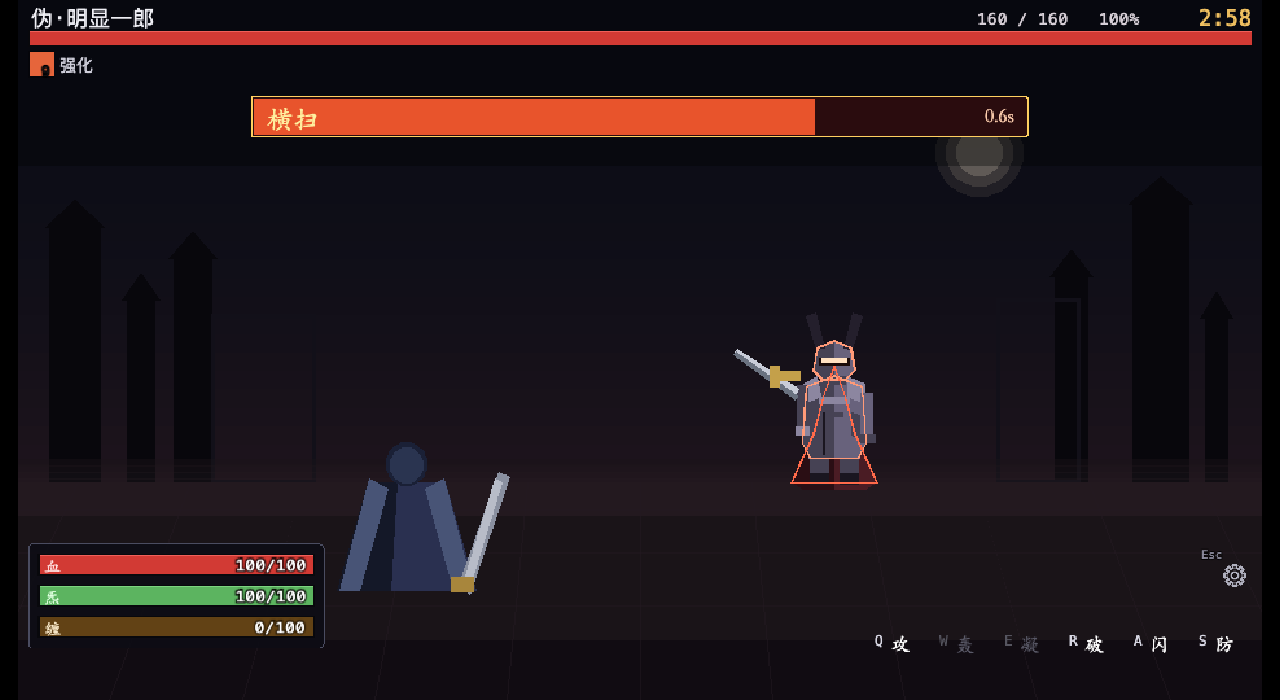
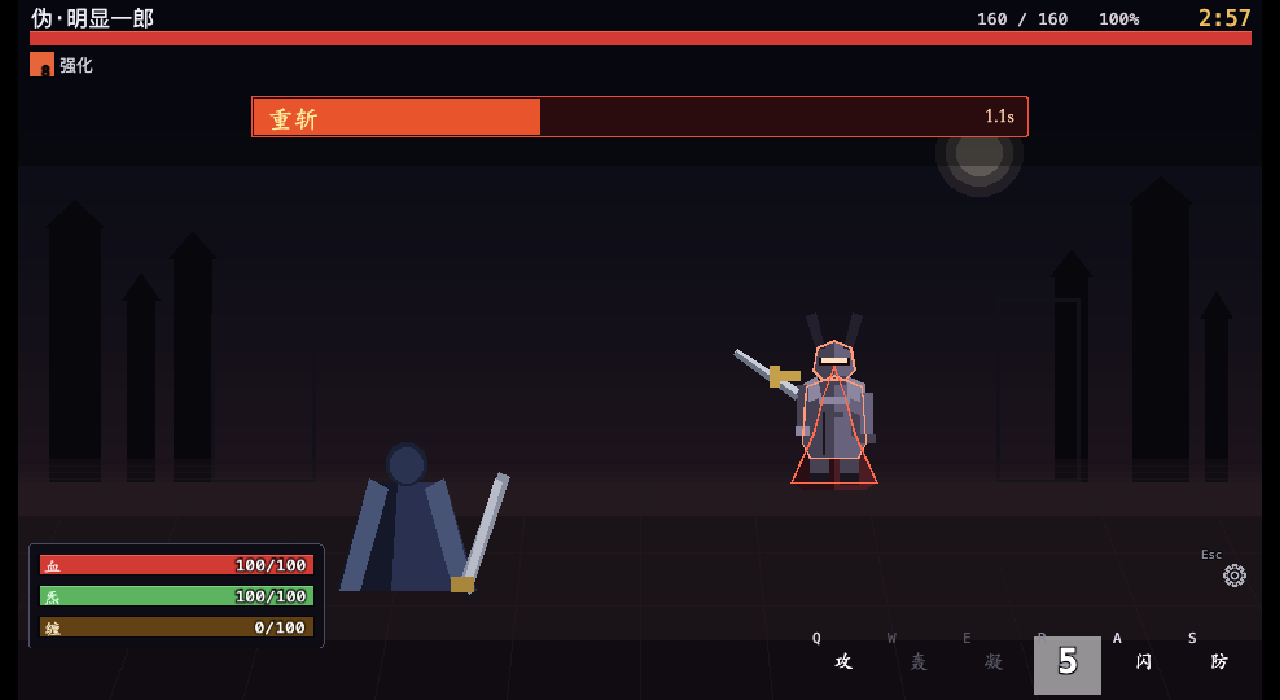
fix(ui): 技能格 44→52；技能字改为真正居中
需求："如果现在按键有这么大，那按键的 icon 是不是就太小了？
并且位置也不是居中的。"

两点都由**实测坐标**确认了，不是感觉问题：

【1. 技能字原来没居中】
`skillSlotLabels` 给的是 `y: rect.y + 2`（贴顶），而 `Label` 只设了
`anchorX: 0.5`、**没设 anchorY** —— 于是字在 44px 的格子里只占
顶部 17px，下面 27px 全空，看起来又小又偏上。

现在：`y: rect.y + rect.h / 2` + `anchorY: 0.5`，**真正垂直居中**。
实测 15px 的技能字占 y 502..518，格子 484..536（中线 510）→ 居中。

【2. 格子相对内容偏小】
44px 里塞 26px 的冷却数字（实际占 34px 高）已经勉强，技能字只能被挤到顶部。
格子 44 → **52**（每格 52×48）：

  26px 数字居中   → y+9 .. y+43
  15px 技能字居中 → y+17 .. y+34   （**与数字同心，故意重叠**）
  11px 按键提示   → y+2 .. y+13    （贴左上角，与上面两者都不重叠）

  格子 y 484..536（底到 536，画布 540，留 4px）
  水平 x 494..952 —— 与玩家面板（x 8..236）不重叠，只是垂直方向并行

【测试改动：一条旧断言与需求冲突，删掉重写】
原来那条断言"技能字 / 冷却数字 / 按键提示**三者互不重叠**"，
而现在的需求明确要求**数字盖在技能字上** —— 两者必须同心重叠。
所以改成：
  - **按键提示**与技能字、数字不重叠（它是小字，被压住就读不出来）
  - 技能字与数字**同心**（中心点一致）
  - 格子高度 ≥ 34+8（放得下 26px 数字）

479 测试 + lint + typecheck + build + CDP 端到端全过。

diff --git a/tests/unit/scaling.test.ts b/tests/unit/scaling.test.ts
@@ -120,55 +120,59 @@ describe('技能格内三个标签都不越界、互不重叠', () => {
     }
   });
 
-  it('三个标签的**实际文字矩形**互不重叠', () => {
+  it('按键提示与技能字/数字**不**重叠（这两个必须让开）', () => {
     /**
-     * 用实测尺寸做矩形重叠检测，而不是靠"y 坐标谁大谁小"。
+     * 需求演进："数字应该盖在按键 icon 上" ——
+     * 所以 **技能字与冷却数字是故意重叠的**（同心叠放），
+     * 旧版这条断言"三者互不重叠"已经和需求冲突，删掉了。
      *
-     * 早先我写的是"数字的 y 必须 ≥ 技能字底部"，那条断言假设了两个
-     * 标签**左右对齐**；但数字是居中的、技能字也在中间，两者本来就
-     * 在垂直方向交叠 —— 真正避免重叠的是**水平错开**（数字居中、
-     * 按键右对齐）与**垂直错开**（字在上、数字在中下）。
-     * 只有矩形相交检测能同时覆盖这两种情况。
+     * 仍然必须互不重叠的是**按键提示**：它是小字，被压住就读不出来。
      *
-     * 尺寸来自浏览器实测（探针读 `getBounds()`）：
-     *   技能字 26x28、冷却数字 11x18、按键提示 7x13
-     */
-    /**
      * 尺寸来自浏览器实测（探针读 `getBounds()`）：
      *   技能字 15px 楷体 → 15x17
-     *   冷却秒数 13px     → 9x18（含描边）
+     *   冷却秒数 26px     → 22x34（含描边）
      *   按键提示 11px     → 7x13
      */
-    const sizes = { glyph: { w: 15, h: 17 }, cooldown: { w: 11, h: 18 }, key: { w: 7, h: 13 } };
+    const sizes = { glyph: { w: 15, h: 17 }, cooldown: { w: 22, h: 34 }, key: { w: 7, h: 13 } };
     const total = 6;
     for (let i = 0; i < total; i += 1) {
       const rect = skillSlotRect(i, total);
       const pos = skillSlotLabels(rect);
-      // 把 anchor 折算成左上角
-      const boxes = [
-        { name: 'glyph', x: pos.glyph.x - sizes.glyph.w / 2, y: pos.glyph.y, ...sizes.glyph },
-        {
-          name: 'cooldown',
-          x: pos.cooldown.x - sizes.cooldown.w / 2,
-          y: pos.cooldown.y,
-          ...sizes.cooldown,
-        },
-        // 按键提示现在是**左对齐**（左上角）
-        { name: 'key', x: pos.key.x, y: pos.key.y, ...sizes.key },
-      ];
+      /** 把 anchor 折算成左上角 */
+      const box = (c: { x: number; y: number }, s: { w: number; h: number }, ax = 0.5, ay = 0) => ({
+        x: c.x - s.w * ax,
+        y: c.y - s.h * ay,
+        w: s.w,
+        h: s.h,
+      });
+      const overlap = (a: ReturnType<typeof box>, b: ReturnType<typeof box>): boolean =>
+        a.x < b.x + b.w && b.x < a.x + a.w && a.y < b.y + b.h && b.y < a.y + a.h;
 
-      for (let a = 0; a < boxes.length; a += 1) {
-        for (let b = a + 1; b < boxes.length; b += 1) {
-          const A = boxes[a]!;
-          const B = boxes[b]!;
-          const ox = Math.min(A.x + A.w, B.x + B.w) - Math.max(A.x, B.x);
-          const oy = Math.min(A.y + A.h, B.y + B.h) - Math.max(A.y, B.y);
-          // 允许 1px 的抗锯齿交叠
-          const overlapping = ox > 1 && oy > 1;
-          expect(overlapping, `${A.name} 与 ${B.name} 重叠（槽位 ${i}）`).toBe(false);
-        }
-      }
+      const key = box(pos.key, sizes.key, 0, 0);
+      const glyph = box(pos.glyph, sizes.glyph);
+      const cd = box(pos.cooldown, sizes.cooldown);
+
+      expect(overlap(key, glyph), `按键与技能字重叠（槽位 ${i}）`).toBe(false);
+      expect(overlap(key, cd), `按键与冷却数字重叠（槽位 ${i}）`).toBe(false);
     }
+  });
+
+  it('技能字与冷却数字**同心** —— 数字要盖在 icon 上', () => {
+    /**
+     * 需求："数字应该盖在按键 icon 上"。
+     * 两者中心点必须一致，否则数字会偏向一侧。
+     */
+    for (let i = 0; i < 6; i += 1) {
+      const pos = skillSlotLabels(skillSlotRect(i, 6));
+      expect(pos.glyph.x).toBeCloseTo(pos.cooldown.x, 5);
+      expect(pos.glyph.y).toBeCloseTo(pos.cooldown.y, 5);
+    }
+  });
+
+  it('格子够大：26px 数字 + 15px 技能字都在格内且彼此留有余量', () => {
+    const rect = skillSlotRect(0, 6);
+    // 数字（26px）约 34px 高，必须放得进 52px 的格子
+    expect(rect.h).toBeGreaterThanOrEqual(34 + 8);
   });
 
   it('槽位右对齐：最后一格的右边缘贴合安全边距', () => {

diff --git a/src/ui/layout.ts b/src/ui/layout.ts
@@ -167,10 +167,27 @@ export const LAYOUT = {
 
   /** 技能栏（右下，**右对齐**到安全区 —— 右手操作区） */
   skillBar: {
-    slot: 44,
+    /**
+     * 格子边长。
+     *
+     * 演进 44 → **52**。需求："如果现在按键有这么大，那按键的 icon
+     * 是不是就太小了？并且位置也不是居中的。"
+     *
+     * 44 的问题是：冷却数字（26px 字，实际占 34px 高）几乎填满整格，
+     * 而技能字被挤在顶部（`y+2`）—— 看起来又小又偏上。
+     *
+     * 52 的算法（每格 52×48）：
+     *   26px 数字居中 → 占 y+9..y+43
+     *   15px 技能字居中 → 占 y+17..y+34（**与数字同心**，故意重叠：
+     *                              冷却时数字就"盖"在图标上）
+     *   11px 按键提示贴左上角 → 占 y+2..y+13
+     * 三者互不冲突，并且数字与技能字都是**真正居中**的。
+     */
+    slot: 52,
     gap: 6,
     max: 8,
-    y: 486,
+    /** 顶边。52 高的格子放这里，底部到 536，留 4px。 */
+    y: 484,
     right: 8,
     /**
      * 冷却遮罩**最大**高度 = **整格**。
@@ -181,7 +198,7 @@ export const LAYOUT = {
      * → **白色铺满整格**（当前）。
      * 只有高度随冷却比例变化，高度取整所以不抖。
      */
-    cooldownBarHeight: 44,
+    cooldownBarHeight: 52,
   },
 
   /** 战斗计时（顶栏右侧） */
@@ -254,13 +271,14 @@ export function skillSlotLabels(rect: {
 }): SlotLabelRects {
   return {
     /**
-     * 技能字：水平居中，**偏上**。
+     * 技能字：**正中央**（`anchorX/Y = 0.5`，所以这是中心点）。
      *
-     * 44px 的格子放不下"26px 的楷体字 + 13px 的秒数"而不重叠 ——
-     * 这一点是被矩形重叠检测算出来的（我肉眼调了三轮都没定下来）。
-     * 所以字缩到 18px 并偏上，给下方的秒数让出 20px 净空。
+     * 早期它偏上（`y + 2`），因为那时冷却秒数放在它**下方**、
+     * 两者不能重叠。现在秒数改成**居中盖住**技能字（需求：
+     * "数字应该盖在按键 icon 上"），所以技能字也回到正中 ——
+     * 两者同心地叠在一起，冷却时数字压住图标。
      */
-    glyph: { x: rect.x + rect.w / 2, y: rect.y + 2 },
+    glyph: { x: rect.x + rect.w / 2, y: rect.y + rect.h / 2 },
     /**
      * 冷却秒数：**格子正中，直接盖在技能字上**。
      *

diff --git a/src/render/BattleScene.ts b/src/render/BattleScene.ts
@@ -281,7 +281,9 @@ class SkillBarView {
         y: pos.glyph.y,
         size: FONT.body,
         color: 0xffffff,
+        // 双向居中 —— 需求指出技能字原先"位置也不是居中的"
         anchorX: 0.5,
+        anchorY: 0.5,
         kai: true,
       });
       /**
